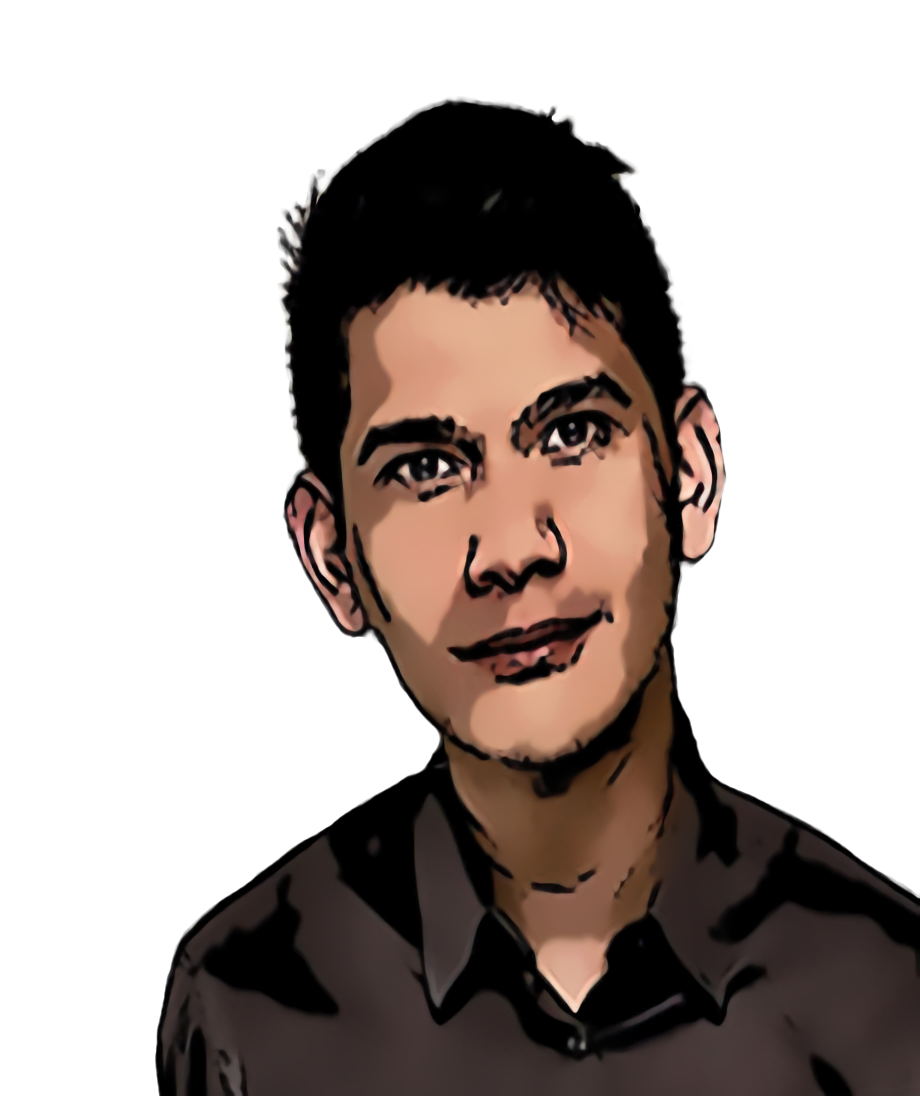
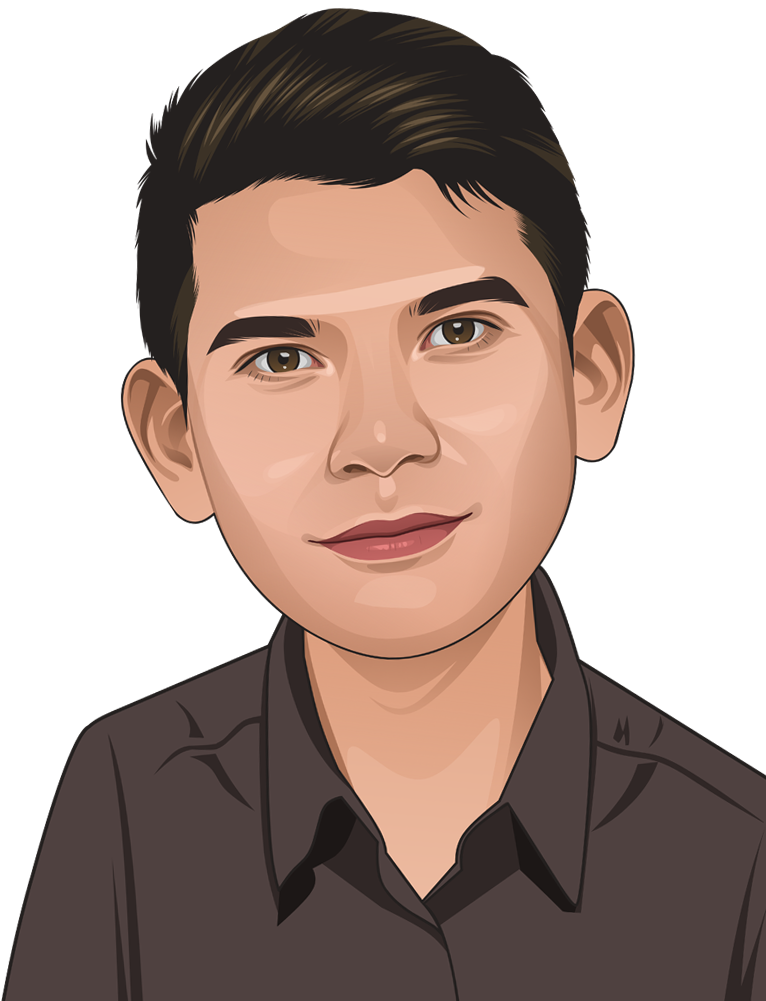
mostly graphical update, and new pdf resume

diff --git a/src/app/welcome/welcome-background/welcome-background.component.html b/src/app/welcome/welcome-background/welcome-background.component.html
@@ -1,12 +1,12 @@
 <div class="skills">
     <img loading="lazy" class="background" src="/assets/template/welcome/illustration-back.png" alt="Background circle"/>
-    <img loading="lazy" class="skill-icon first" src="/assets/template/welcome/icons/docker.svg" alt="Docker"/>
-    <img loading="lazy" class="skill-icon second" src="/assets/template/welcome/icons/jenkins.svg" alt="Jenkins"/>
+    <img loading="lazy" class="skill-icon first" src="/assets/template/welcome/icons/java.svg" alt="JAVA"/>
+    <img loading="lazy" class="skill-icon second" src="/assets/template/welcome/icons/javascript.svg" alt="JavaScript"/>
     <img loading="lazy" class="skill-icon third" src="/assets/template/welcome/icons/git.svg" alt="Git"/>
     <img loading="lazy" class="skill-icon fourth" src="/assets/template/welcome/icons/matlab.svg" alt="MATLAB"/>
     <img loading="lazy" class="skill-icon fifth" src="/assets/template/welcome/icons/python.svg" alt="Python"/>
     <img loading="lazy" class="skill-icon sixth" src="/assets/template/welcome/icons/julia.svg" alt="Julia"/>
-    <img loading="lazy" class="skill-icon seventh" src="/assets/template/welcome/icons/java.svg" alt="JAVA"/>
+    <img loading="lazy" class="skill-icon seventh" src="/assets/template/welcome/icons/jenkins.svg" alt="Jenkins"/>
     <img loading="lazy" class="skill-icon eighth" src="/assets/template/welcome/icons/heroku.svg" alt="Heroku"/>
     <img loading="lazy" class="skill-icon ninth" src="/assets/template/welcome/icons/firebase.svg" alt="Firebase"/>
 </div>

diff --git a/src/app/contact/contact.service.ts b/src/app/contact/contact.service.ts
@@ -8,7 +8,7 @@ export class ContactService {
     constructor(private database: AngularFirestore) { }
 
     createContact(contact: Contact): Promise<DocumentReference> {
-        console.log("Mæhle-adresse: ")
+        // console.log("Mail-adresse: ")
         console.log(contact.email.valueOf())
         return this.database.collection<Contact>("Beskeder").add(contact);
     }

diff --git a/src/app/contact/contact.component.ts b/src/app/contact/contact.component.ts
@@ -64,7 +64,7 @@ export class ContactComponent implements OnInit {
   ngOnInit(): void {
     this.name = "Poul Rosenberg";
     this.email = "poul@poulrosenberg.dk";
-    this.phone = "+45 2869 3512";
+    // this.phone = "+45 2869 3512";
     this.location = "Bagsværd, Copenhagen, Denmark";
 
     this.faEnvelope = faEnvelope;
